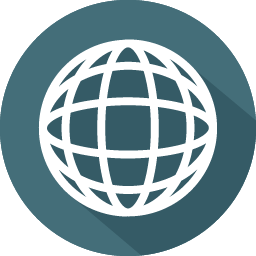
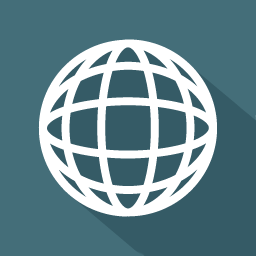
final

diff --git a/domain_overview.html b/domain_overview.html
@@ -142,10 +142,10 @@
           <div class="container">
             <div class="row">
               <div class="col s12 m12 l12">
-                <h5 class="breadcrumbs-title"><i class="mdi mdi-gift"></i> Gift Cards</h5>
+                <h5 class="breadcrumbs-title"><i class="mdi mdi-earth"></i> Domains</h5>
                 <ol class="breadcrumb">
-                    <li><a class="active" href="#">Products</a></li>
-                    <li><a class="lime-text" href="product_gift_overview.html">Gift Cards</a></li>
+                    <li><a class="active" href="#">Online Store</a></li>
+                    <li><a class="lime-text" href="product_gift_overview.html">Domains</a></li>
                 </ol>
               </div>
             </div>
@@ -157,13 +157,14 @@
             <div class="row">
               <div class="col s12 m12 l12">
               <div class="center">
-                <h4 class="grey-text">Everyone love Gifts</h4>
-                <p class="grey-text">Now there's something on your store for everyone.</p>
+                <h4 class="grey-text">Add a custom domain to get started</h4>
+                <p class="grey-text">Your store's domain is currently <a>http://store.codelarva.com</a></p>
                 <br>
-                <img src="img/gift.png" width="250"  class="responsive-img">
+                <img src="img/browser-icon.png" width="350"  class="circle responsive-img">
                 <br />
                 <br />
-                <a class="btn-flat lime white-text waves-effect waves-light bottom_margin">Setup Gift Cards </a>
+                <a class="btn-flat lime white-text waves-effect waves-light">Add Domain</a>
+                <p class="grey-text">We strongly recommend that you purchase a domain for your store.<br> Custom domains are more professional and make your store easier to find online. How to pick a good domain name ›</p>
               </div>
               </div>
               <br />
@@ -171,12 +172,12 @@
                 <div class="card-panel grey lighten-5 z-depth-1">
                   <div class="row valign-wrapper">
                     <div class="col s4">
-                      <img src="img/gift_yellow.png" alt="" class="circle responsive-img"> 
+                      <img src="img/help.png" alt="" class="circle responsive-img"> 
                       <!-- notice the "circle" class -->
                     </div>
                     <div class="col s7">
                       <span class="black-text">
-                         <a>Need help, Learn more about Gift Cards and Setting them up</a>
+                         <a>Need help, Learn more about Domains and Setting them up.</a>
                       </span>
                     </div>
                   </div>
